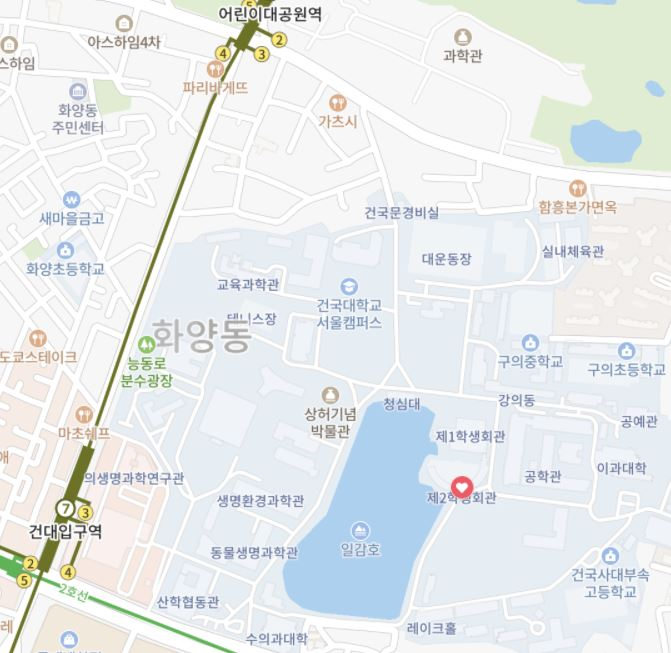
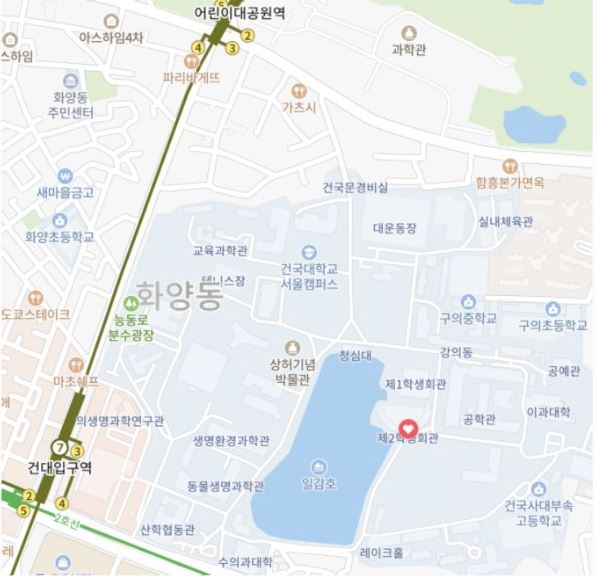
[introduce] 지도 사진 변경, 크기 변환

diff --git a/public/css/introduce.css b/public/css/introduce.css
@@ -13,52 +13,51 @@ a{
 }
 
 .greeting{
-    width:1130px;
-    padding: 0 30px;
+    width:78.5vw;
+    padding: 0 2.1vw;
     margin: 70px auto;
 }
 
 #introduce_greeting > span {
     margin: 20px auto;
-    padding: 0 20px;
+    padding: 0 1.5vw;
     height: 50px;
-    font-size: 36px;
+    font-size: 3.6rem;
     margin-top: 50px;
 }
 
 #introduce_welcome {
     margin: 30px auto;
-    padding: 0 20px;
+    padding: 0 1.5vw;
     display: flex;
     align-items: flex-start;
 }
 
 #introduce_welcome > img {
-    width:250px;
-    height: 250px;
+    width:17vw;
+    width:17vw;
 }
 
 #introduce_welcome > p {
-    font-size: 16px;
+    font-size: 1.6rem;
     margin-left: 50px;
     /* background-color:#dfd3c3a2; */
-    width: 1000px;
-    height: 700px;
+    width: 70vw;
     line-height:180%;
 }
 #introduce_welcome > p > h3{
-    font-size: 16px;
-    margin-left: 50px;
+    font-size: 1.6rem;
+    margin-left: 3.84vw;
     /* background-color:#dfd3c3a2; */
-    width: 1000px;
+    width: 70vw;
     height: 700px;
     line-height:180%;
 }
 
 #path {
-    width: 1130px;
+    width: 78.5vw;
     margin: 30px auto;
-    padding: 0 30px;
+    padding: 0 2.3vw;
     margin-bottom: 80px;
     margin-top:150px;
 }
@@ -66,9 +65,9 @@ a{
 
 #path>span{
     margin: 20px auto;
-    padding: 0 20px;
+    padding: 0 1.5vw;
     height: 50px;
-    font-size: 36px;
+    font-size: 3.6rem;
     margin-top: 50px;
 }
 
@@ -79,18 +78,17 @@ a{
 }
 
 #kuphil_room > img{
-    width:500px;
-    
+    width:34.7vw;
 }
 
 #kuphil_room > p {
-    padding: 0 100px;
+    padding: 0 7.7vw;
     height: 50px;
-    font-size: 17px;
+    font-size: 1.7rem;
 }
 
 .start_location{
-    width: 1300px;
+    width: 90vw;
     margin: 30px auto;
     display: flex;
     justify-content: space-evenly;
@@ -99,7 +97,7 @@ a{
 .start_location > input{
     border: none;
     background-color: transparent;
-    font-size: 15px;
+    font-size: 1.5rem;
     color: #d5bca3;
     cursor:pointer;
 }
@@ -111,7 +109,7 @@ a{
 
 #stairs{
     margin: 30px auto;
-    font-size:15px;
+    font-size:1.5rem;
     font-weight:bold;
     text-align:center;
 }

diff --git a/public/js/introduce.js b/public/js/introduce.js
@@ -31,7 +31,7 @@ function getPath(btn){
         let Path = document.createElement('div');
         Path.setAttribute('class', 'path');
         Path.id='kuphil_room';
-        Pathway= '<img src="./image/map/map_back.png" alt="경영대학 (후문)에서 동방 오는 길">';
+        Pathway= '<img src="./image/map/map_back.jpg" alt="경영대학 (후문)에서 동방 오는 길">';
         Pathway+='<p>1. 설명글입니다</p>';
         Pathway+='</div>';
         Path.innerHTML=Pathway;
@@ -55,7 +55,7 @@ function getPath(btn){
         let Path = document.createElement('div');
         Path.setAttribute('class', 'path');
         Path.id='kuphil_room';
-        Pathway= '<img src="#" alt="신공학관에서 동방 오는 길">';
+        Pathway= '<img src="./image/map/map_far.jpg" alt="신공학관에서 동방 오는 길">';
         Pathway+='<p>1. 설명글입니다</p>';
         Pathway+='</div>';
         Path.innerHTML=Pathway;

diff --git a/public/html/introduce.html b/public/html/introduce.html
@@ -37,7 +37,7 @@
                     <li><a href="./introduce">소개</a></li>
                     <li><a href="./archive">아카이브</a></li>
                     <li><a href="./calendar">달력</a></li>
-                    <li><a href="./gamecenter">놀이터</a></li>
+                    <li><a href="./qna">Q&A</a></li>
                     <li><a href="./lab">실험실</a></li>
                 </ul>
             </nav>
@@ -52,7 +52,7 @@
                         <li><a href="./introduce">소개</a></li>
                         <li><a href="./archive">아카이브</a></li>
                         <li><a href="./calendar">달력</a></li>
-                        <li><a href="./gamecenter">놀이터</a></li>
+                        <li><a href="./qna">Q&A</a></li>
                         <li><a href="./lab">실험실</a></li>
                     </ul>
                 </nav>
